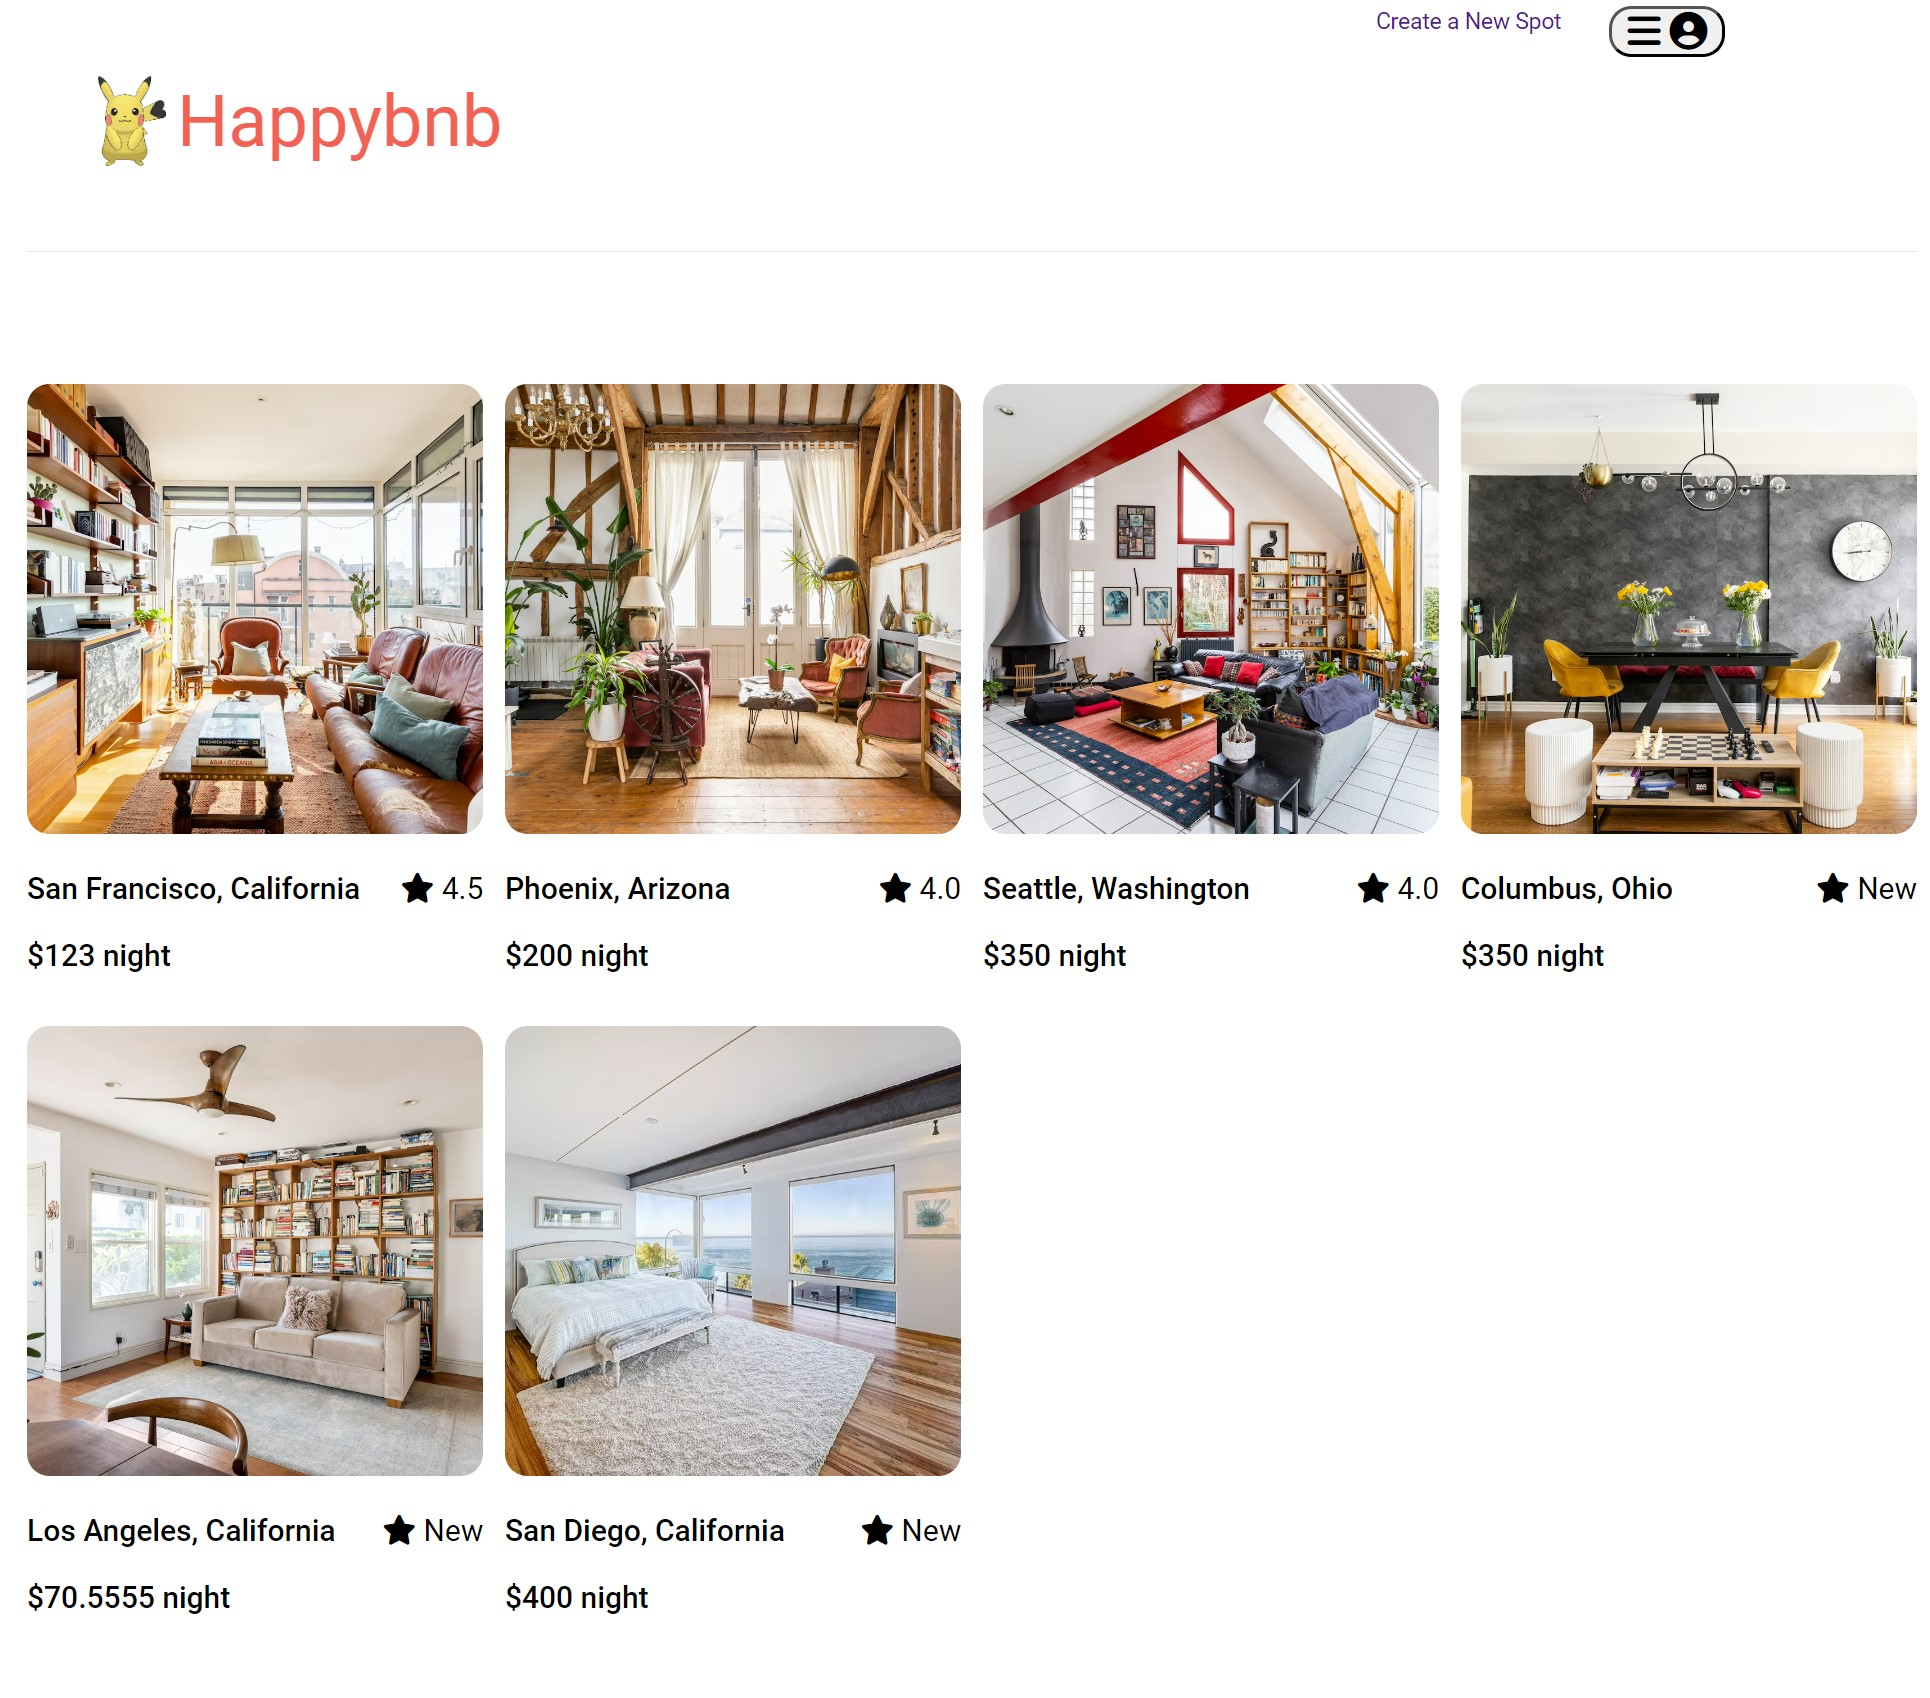
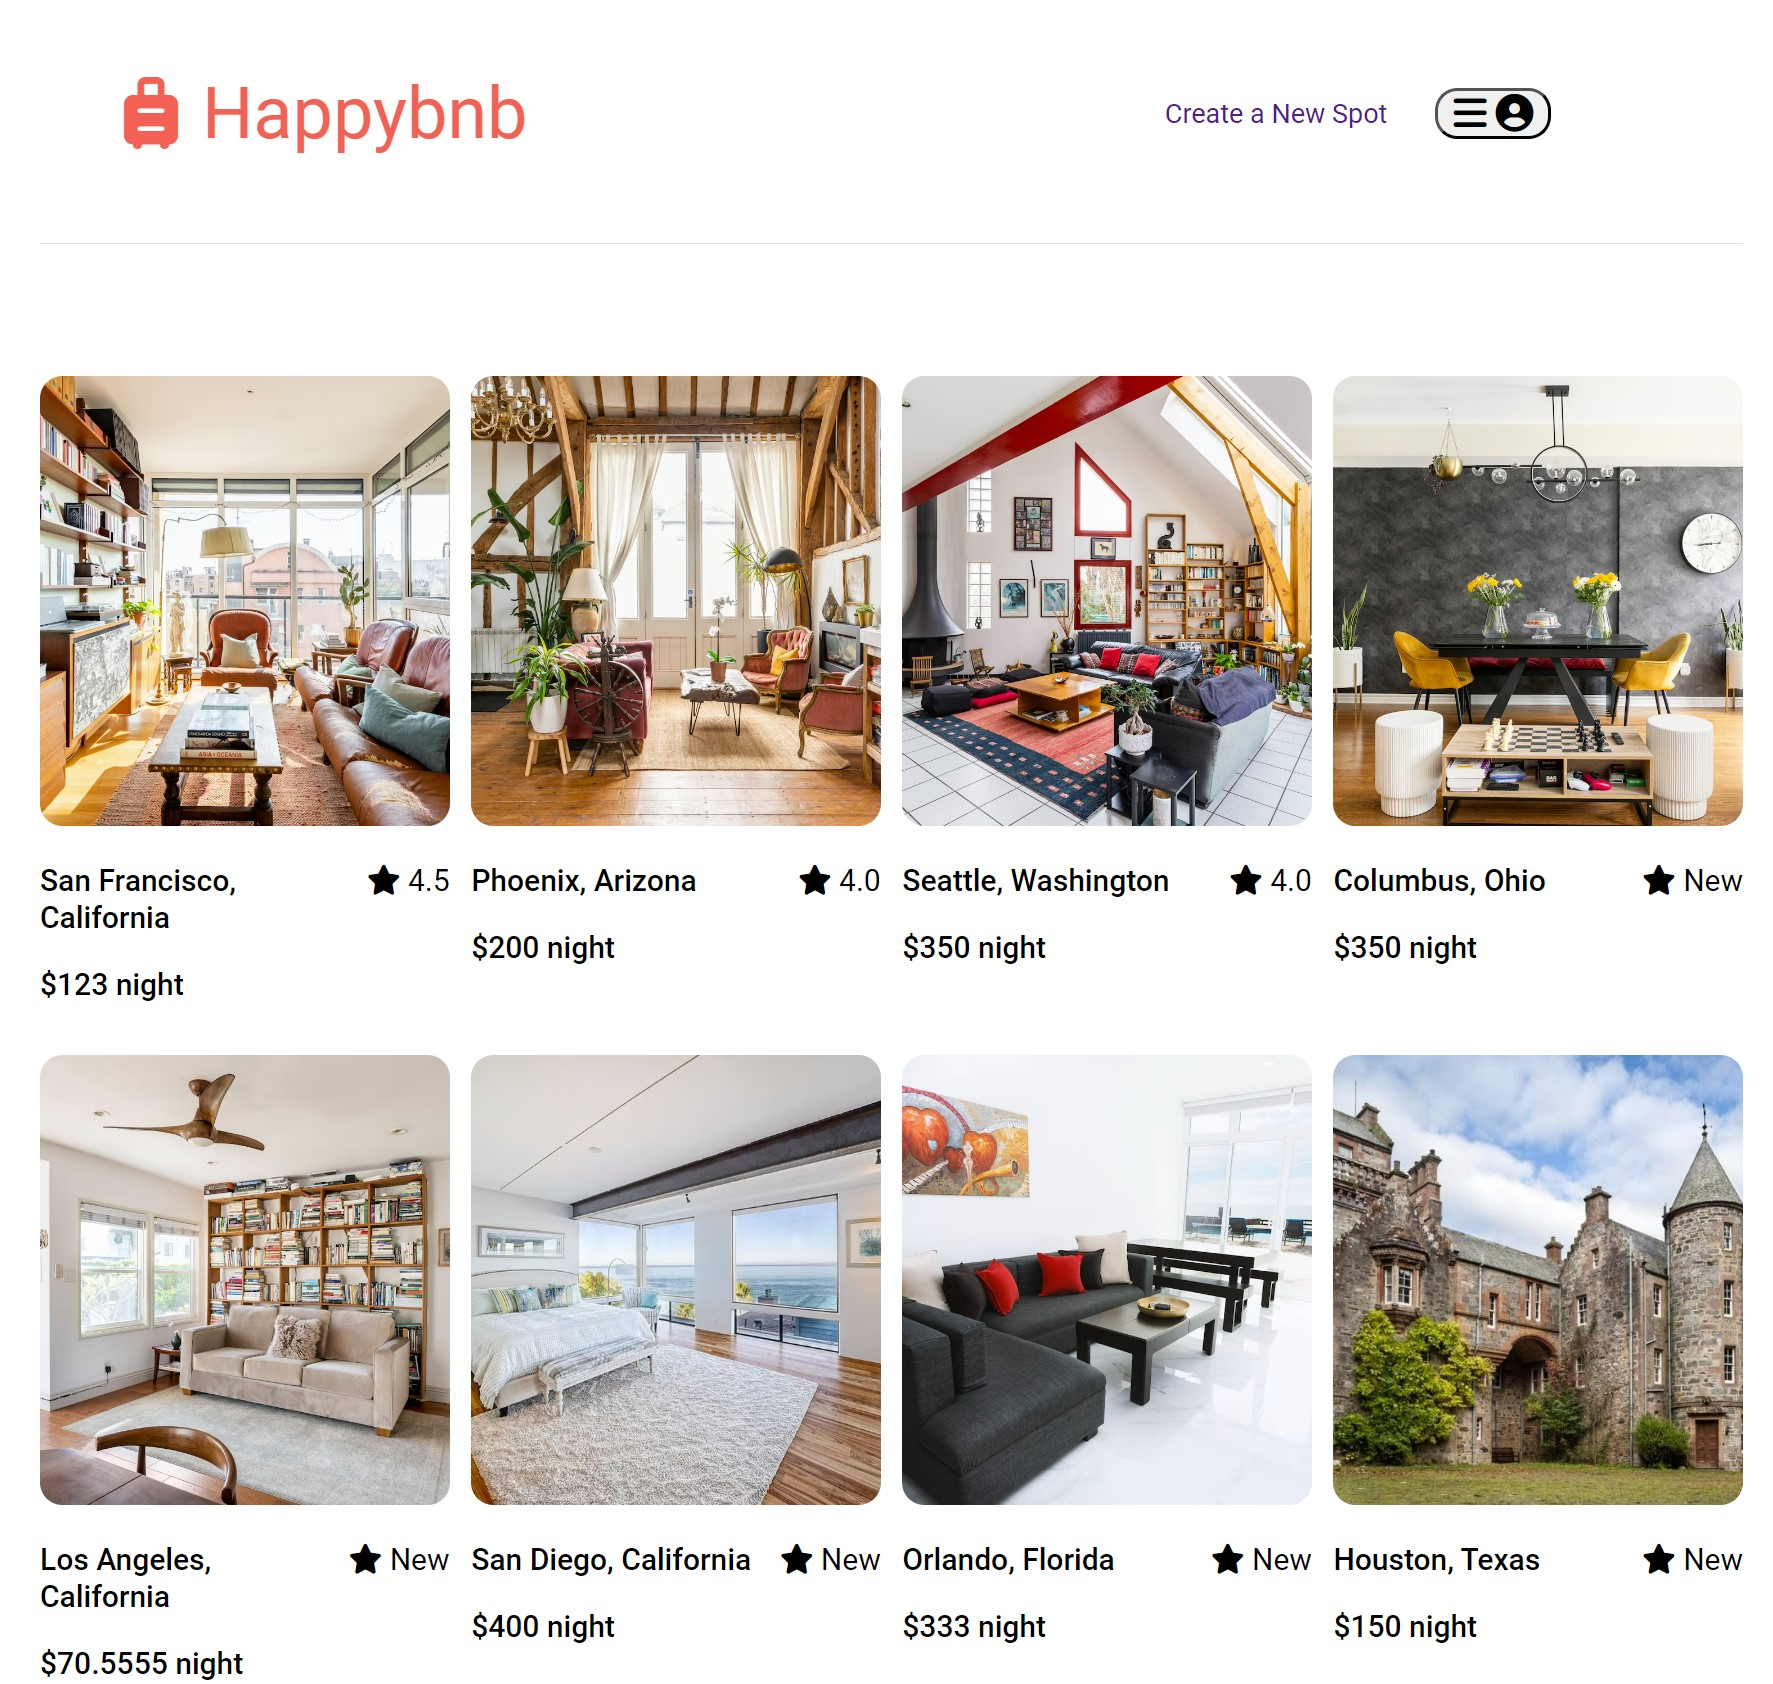
added some more navigation css

diff --git a/frontend/src/components/Navigation/Navigation.css b/frontend/src/components/Navigation/Navigation.css
@@ -111,7 +111,7 @@
 
 #create-spot-navlink {
     text-decoration: none;
-    font-size: 15px;
+    font-size: 18px;
 
 }
 
